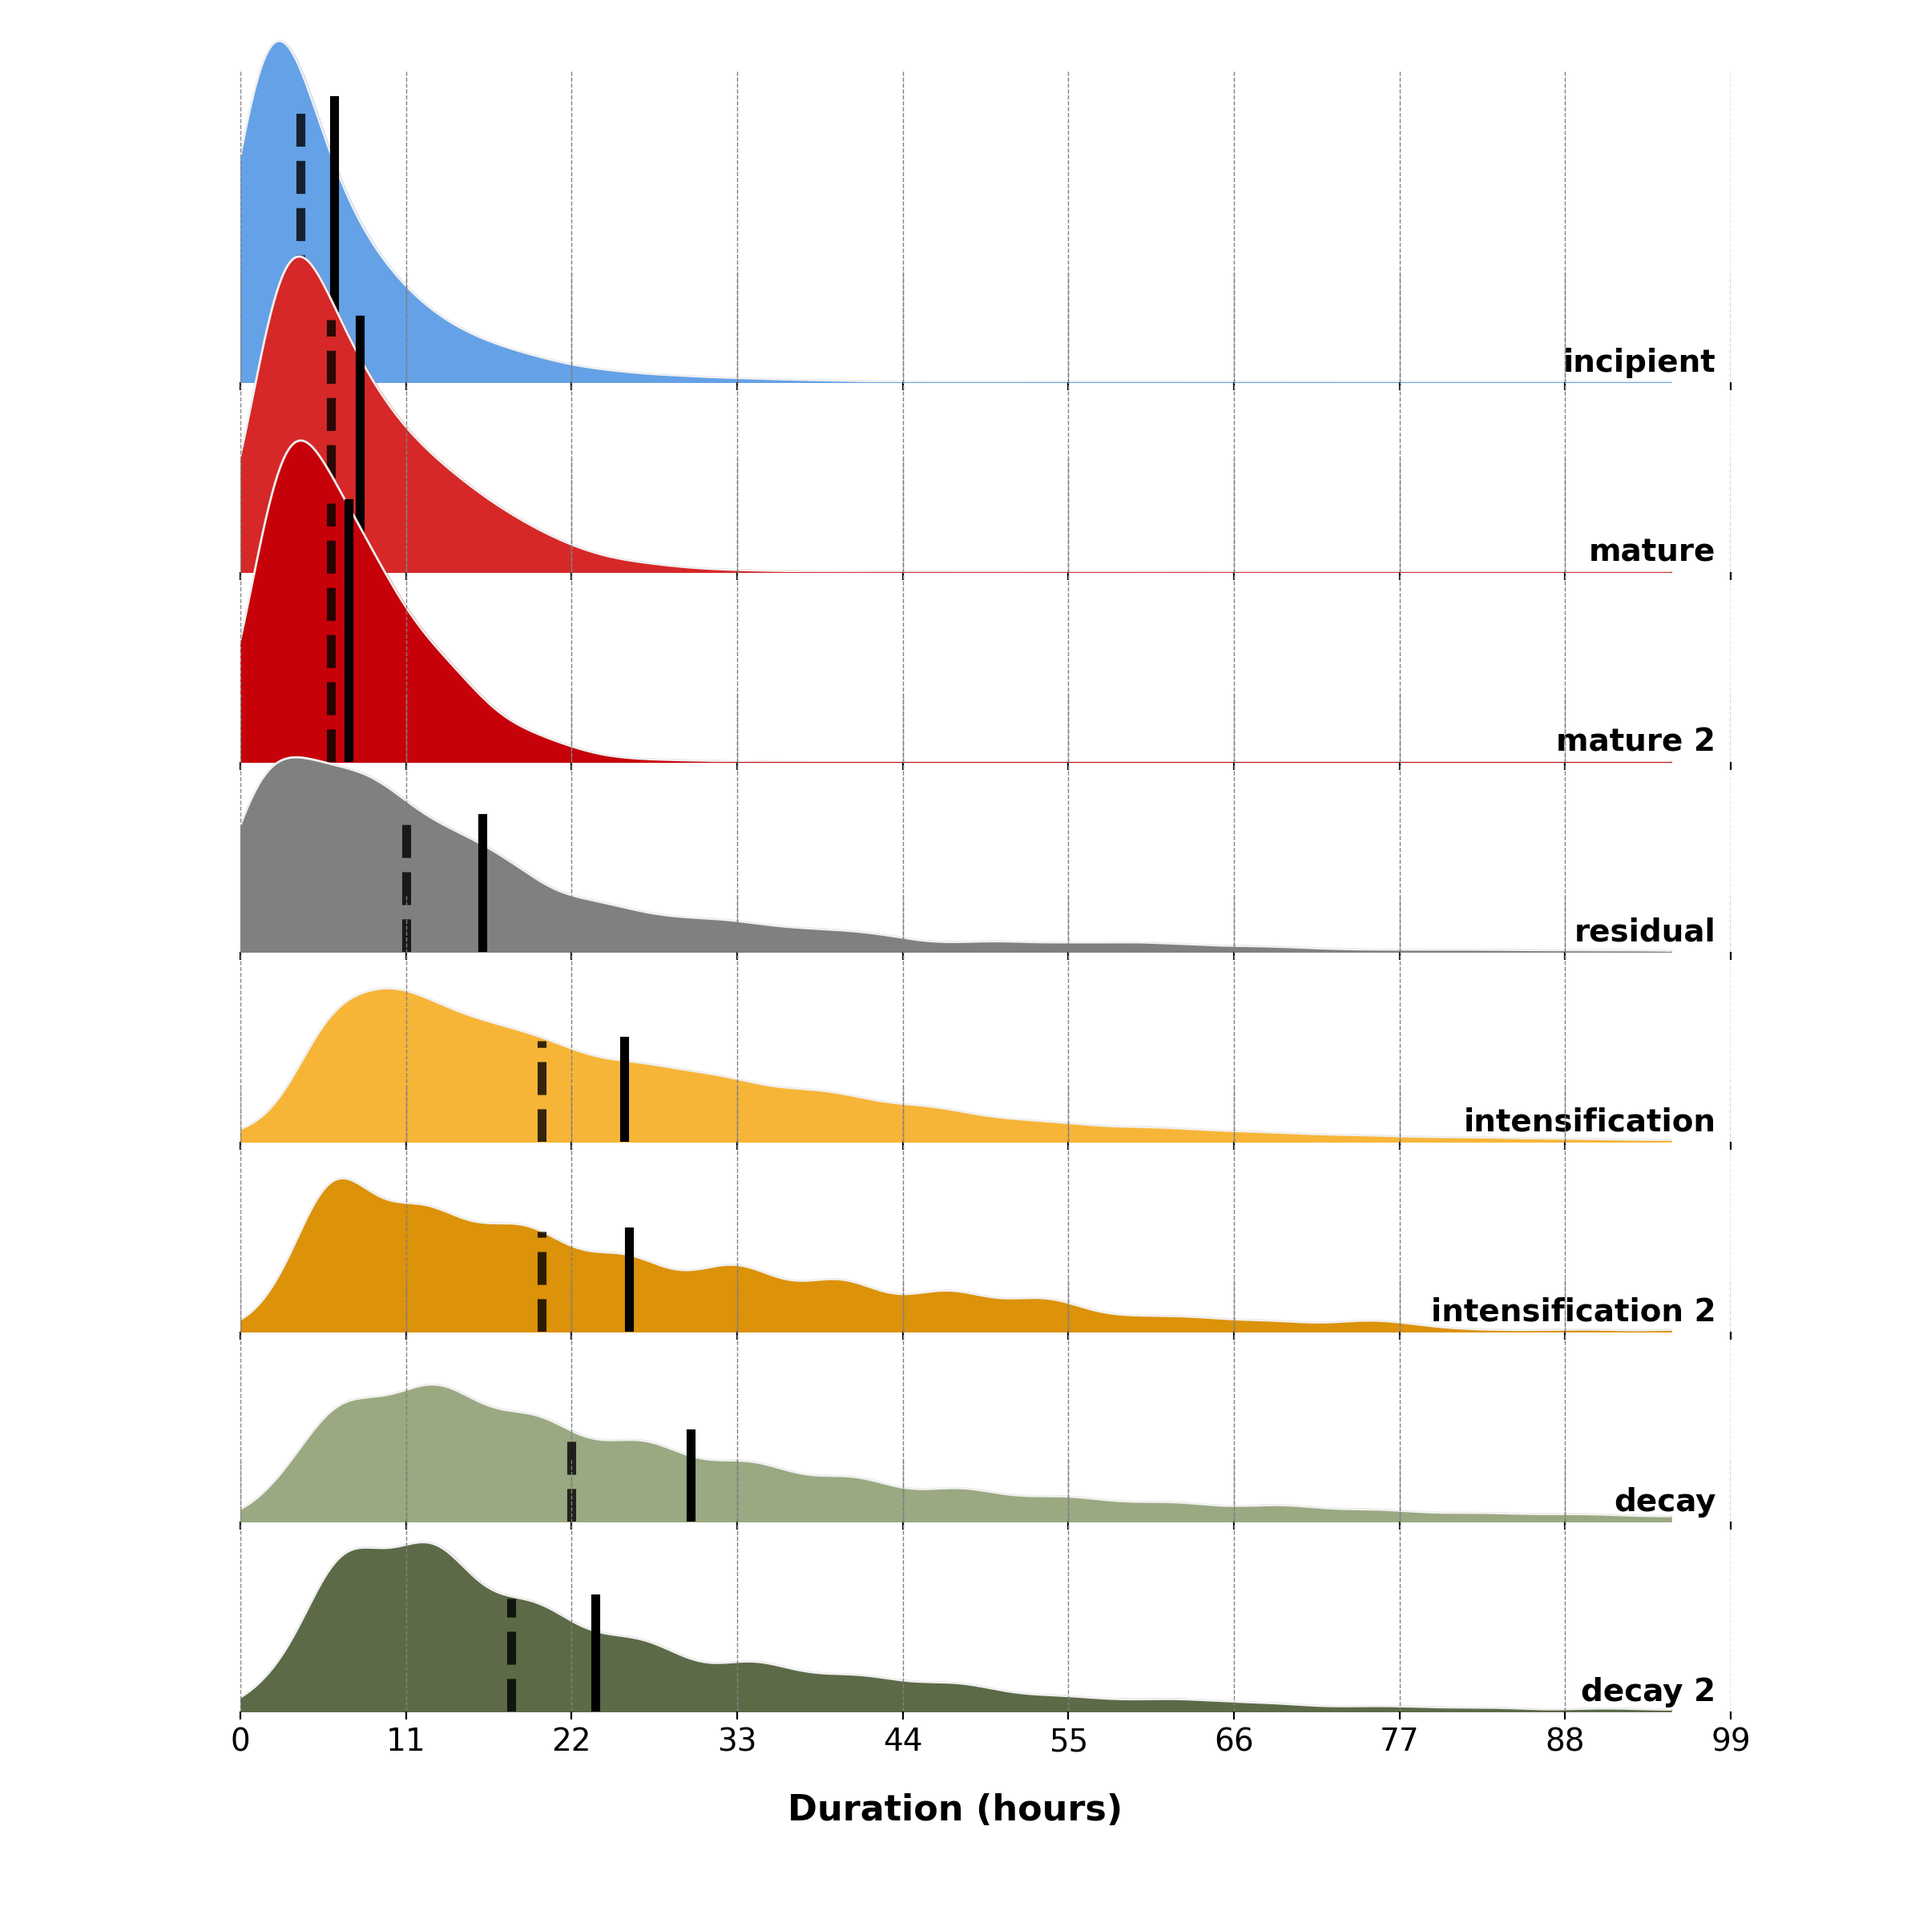
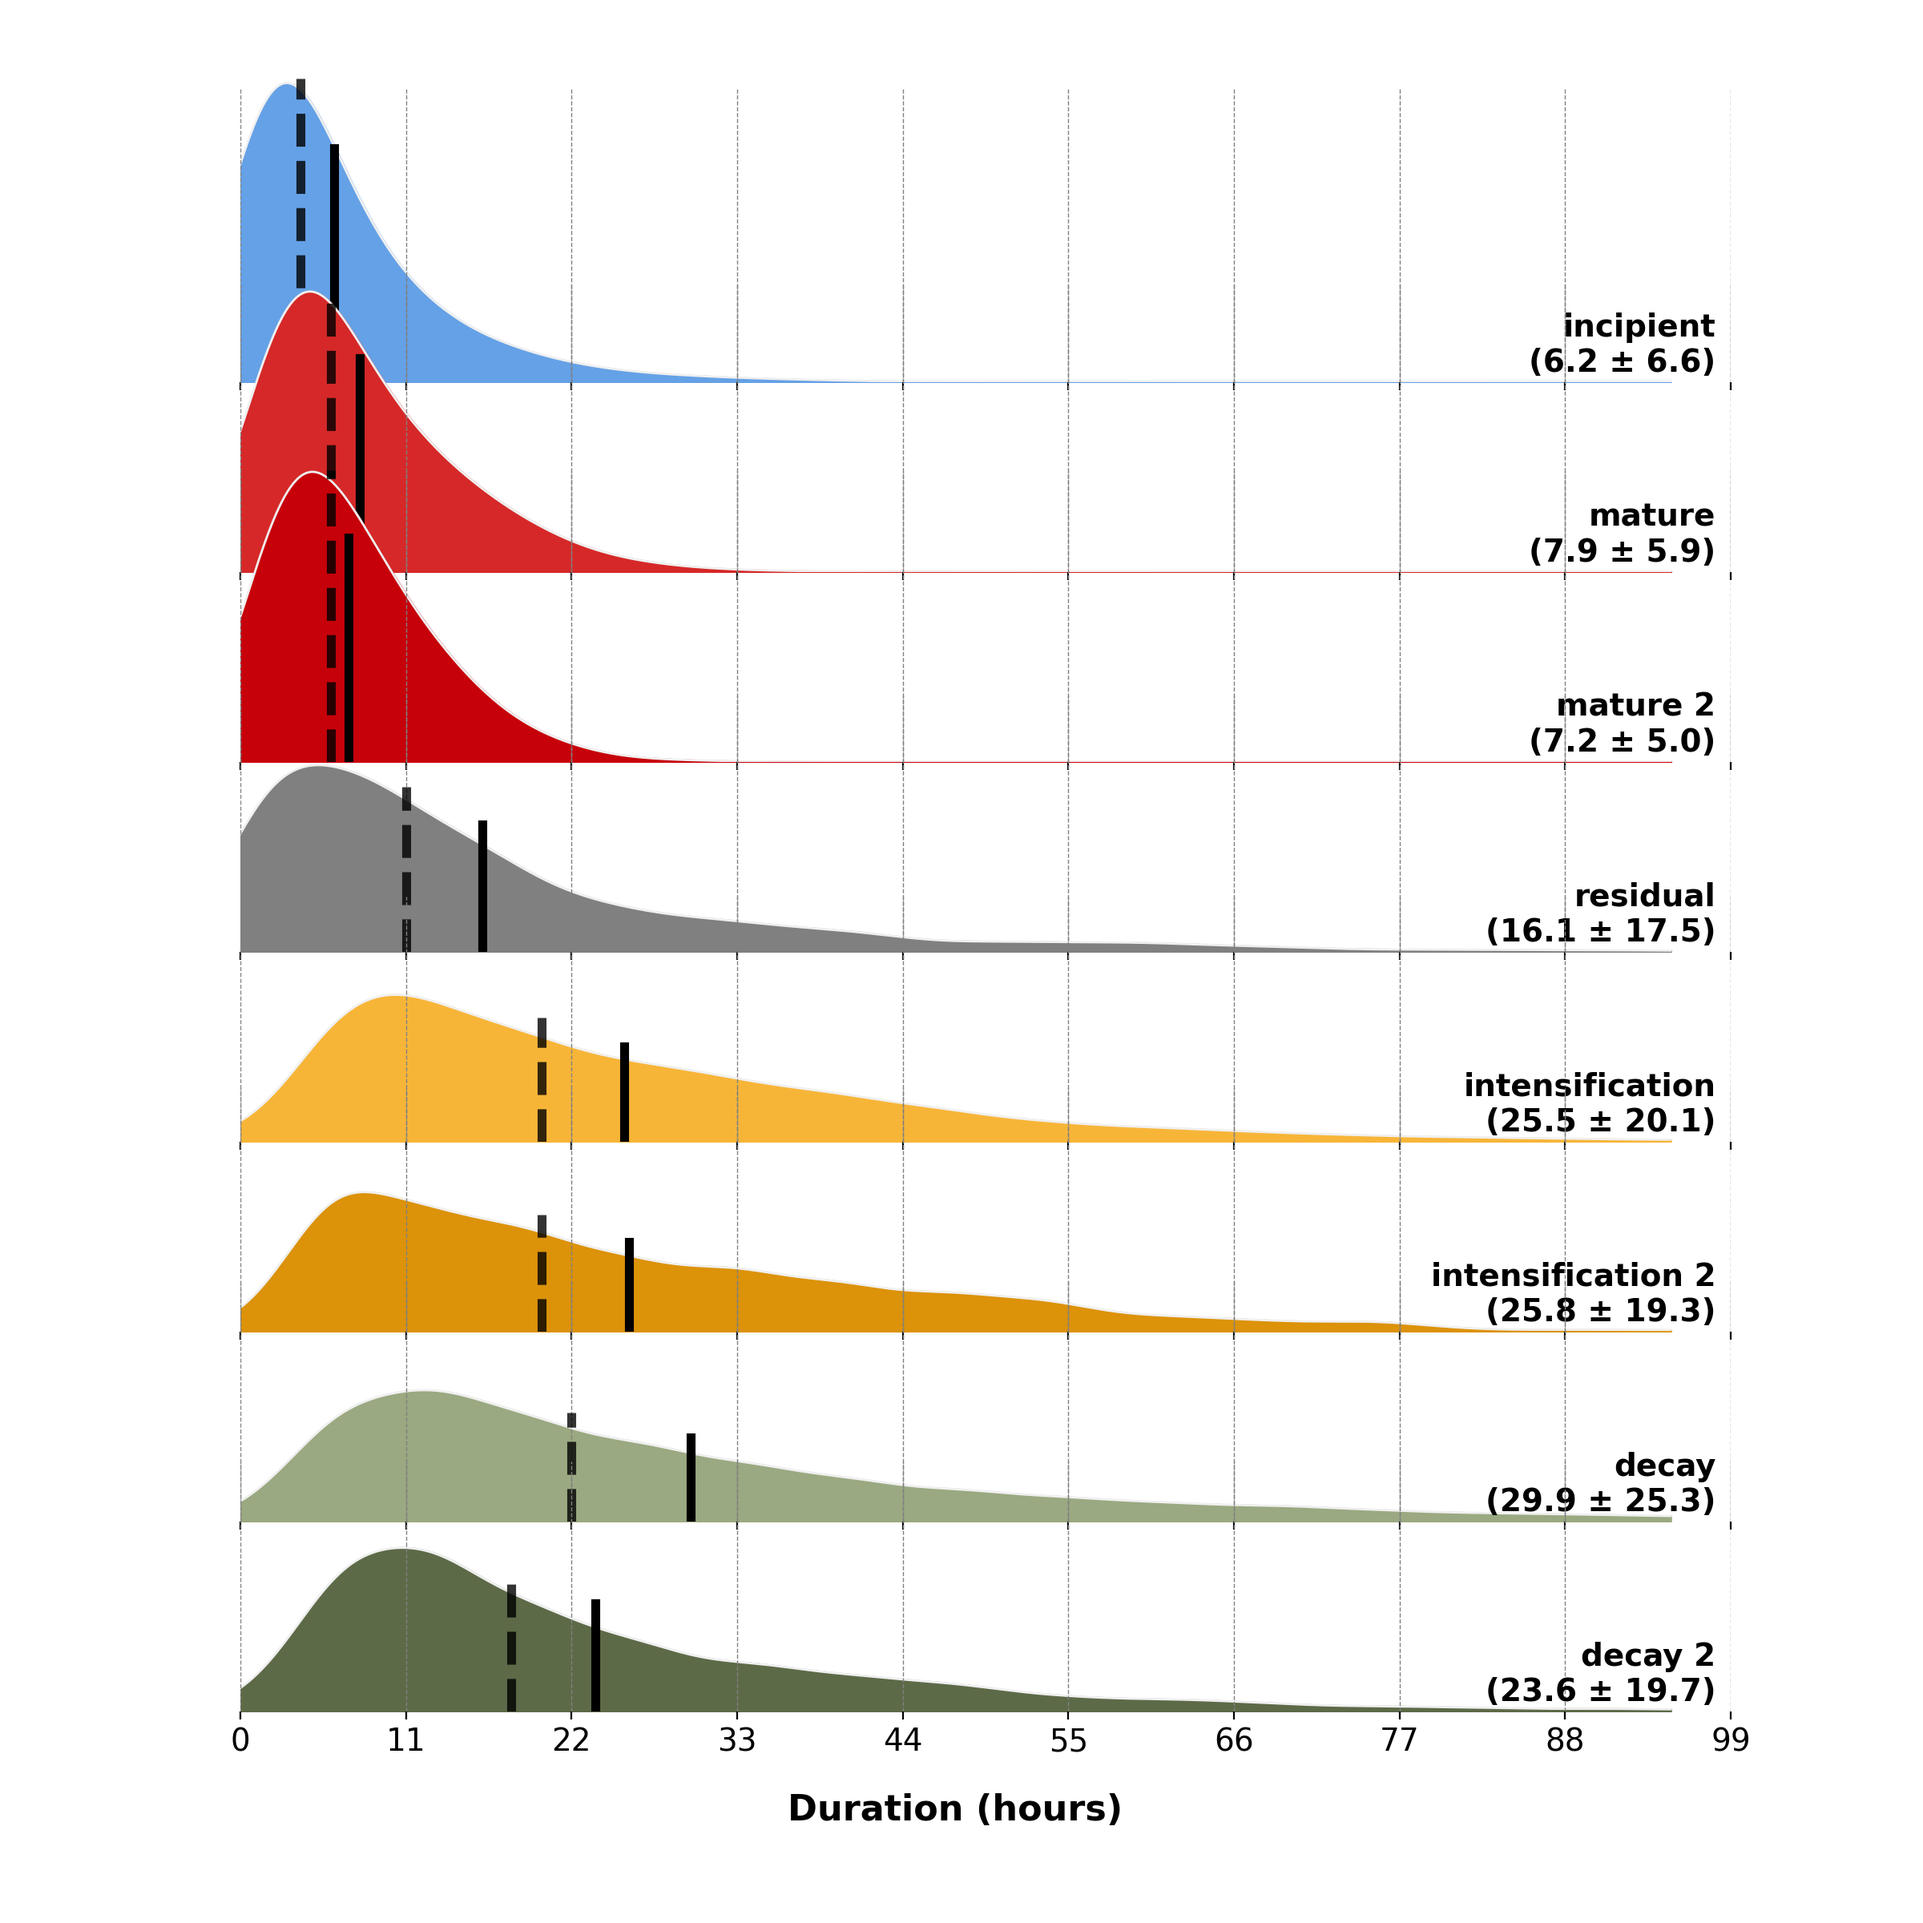
Added mean values with std

diff --git a/src_manuscript_life-cycle/pdf_phase_time.py b/src_manuscript_life-cycle/pdf_phase_time.py
@@ -124,9 +124,6 @@ def plot_single_ridge(data, regions, figure_path, phase, label):
     
     x_d = np.linspace(xmin, xmax, kde_params[phase][1])
 
-    red_shades = ['#9d0208', '#b30109', '#c7010a', '#d9000b', '#dc2f02', '#e14c03', '#e56904', '#ff9066']
-    blue_shades = ['#023e8a', '#0251a0', '#0264b6', '#0077b6', '#0091c3', '#00abd0', '#00c5dd', '#48cae4']
-
     for idx, rg in enumerate(regions):
         region_data = data[(data['Region'] == rg)]
         x = np.array(region_data['Duration (hours)'])
@@ -238,7 +235,7 @@ def plot_ridge_phases(data):
         phase_data = data[data['Phase'] == phase]
         x = np.array(phase_data['Duration (hours)'])
         
-        kde = KernelDensity(bandwidth=2, kernel='gaussian')
+        kde = KernelDensity(bandwidth=3, kernel='gaussian')
         kde.fit(x[:, None])
 
         ax = fig.add_subplot(gs[idx:idx+1, 0])
@@ -279,6 +276,7 @@ def plot_ridge_phases(data):
         # Calculate the mean of the data for the current region
         mean_value = np.mean(x)
         meadian_value = np.median(x)
+        std = np.std(x)
 
         # Draw a vertical line at the mean value
         max_kde_value = np.exp(logprob).max()
@@ -287,7 +285,7 @@ def plot_ridge_phases(data):
         
         ax.axvline(x=mean_value, ymin=0, ymax=ymax_value,
                         color='k', linestyle='-', linewidth=4, label="Mean")
-        ax.axvline(x=meadian_value, ymin=0, ymax=ymax_value,
+        ax.axvline(x=meadian_value, ymin=0, ymax=ymax_value * 1.3,
                         color='k', linestyle='--', linewidth=4, alpha=0.8, label="Median")
         
         print(f"Mean value for {phase}: {mean_value}, median: {meadian_value}")
@@ -301,7 +299,7 @@ def plot_ridge_phases(data):
         else:
             ax.tick_params(axis='x', labelsize=14)
 
-        ax.text(0.99, 0.01, phase, fontweight="bold", fontsize=14,
+        ax.text(0.99, 0.01, f"{phase}\n({mean_value:.1f} ± {std:.1f})", fontweight="bold", fontsize=14,
                  ha="right", transform=ax.transAxes)
 
     ax.text((xmax - xmin) / 2, np.exp(logprob).min() - 0.025,
